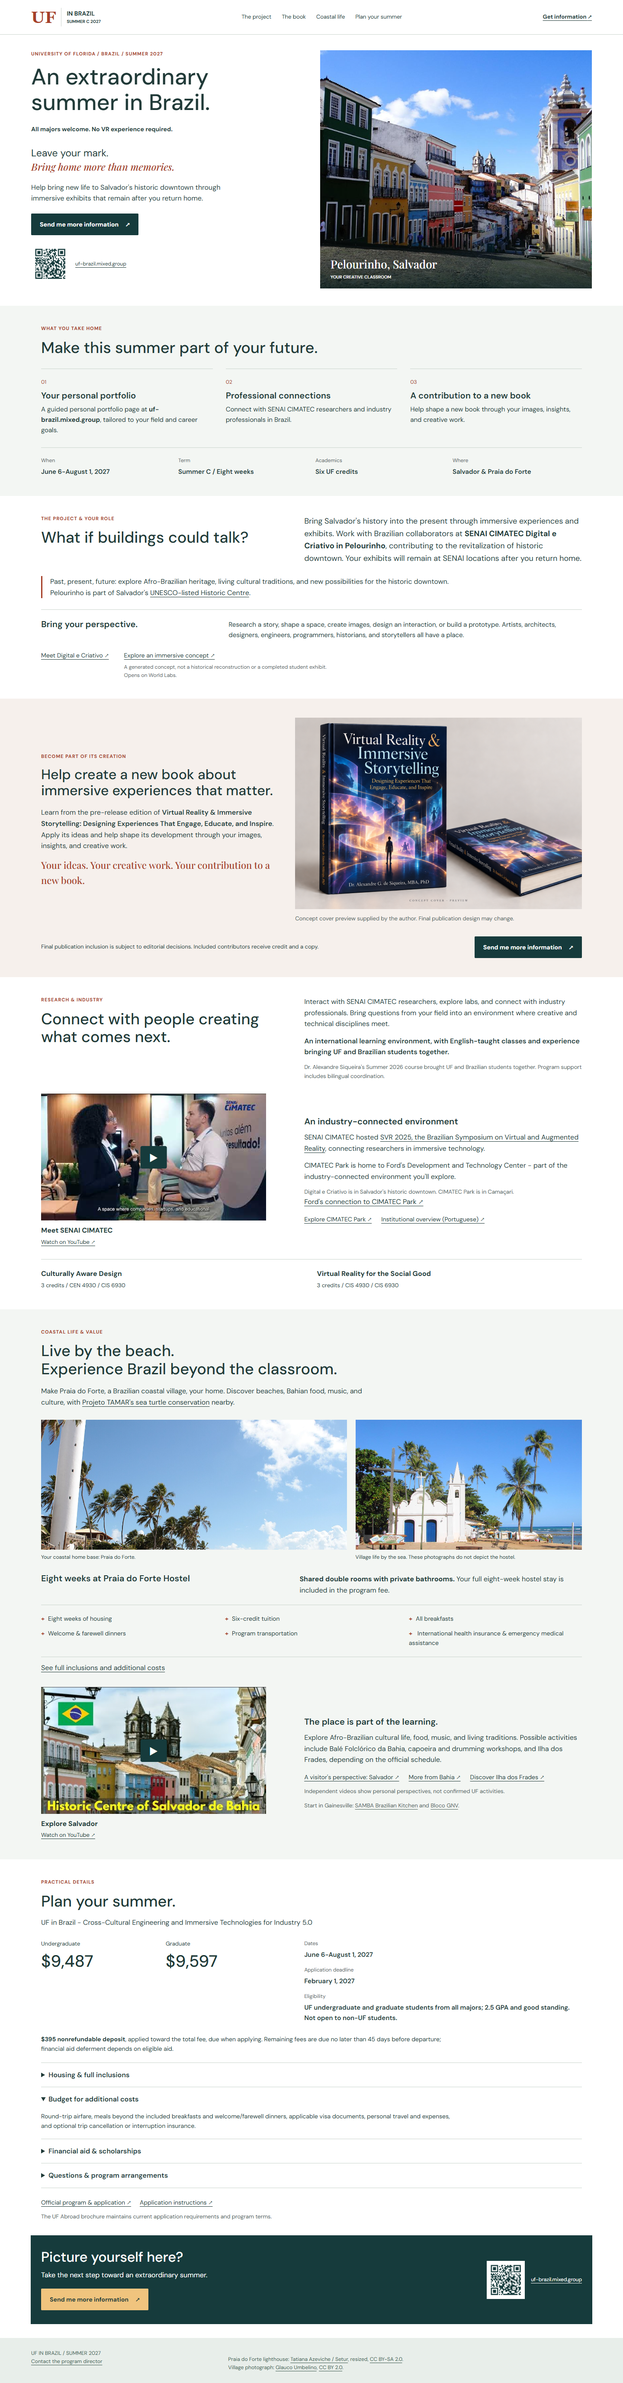
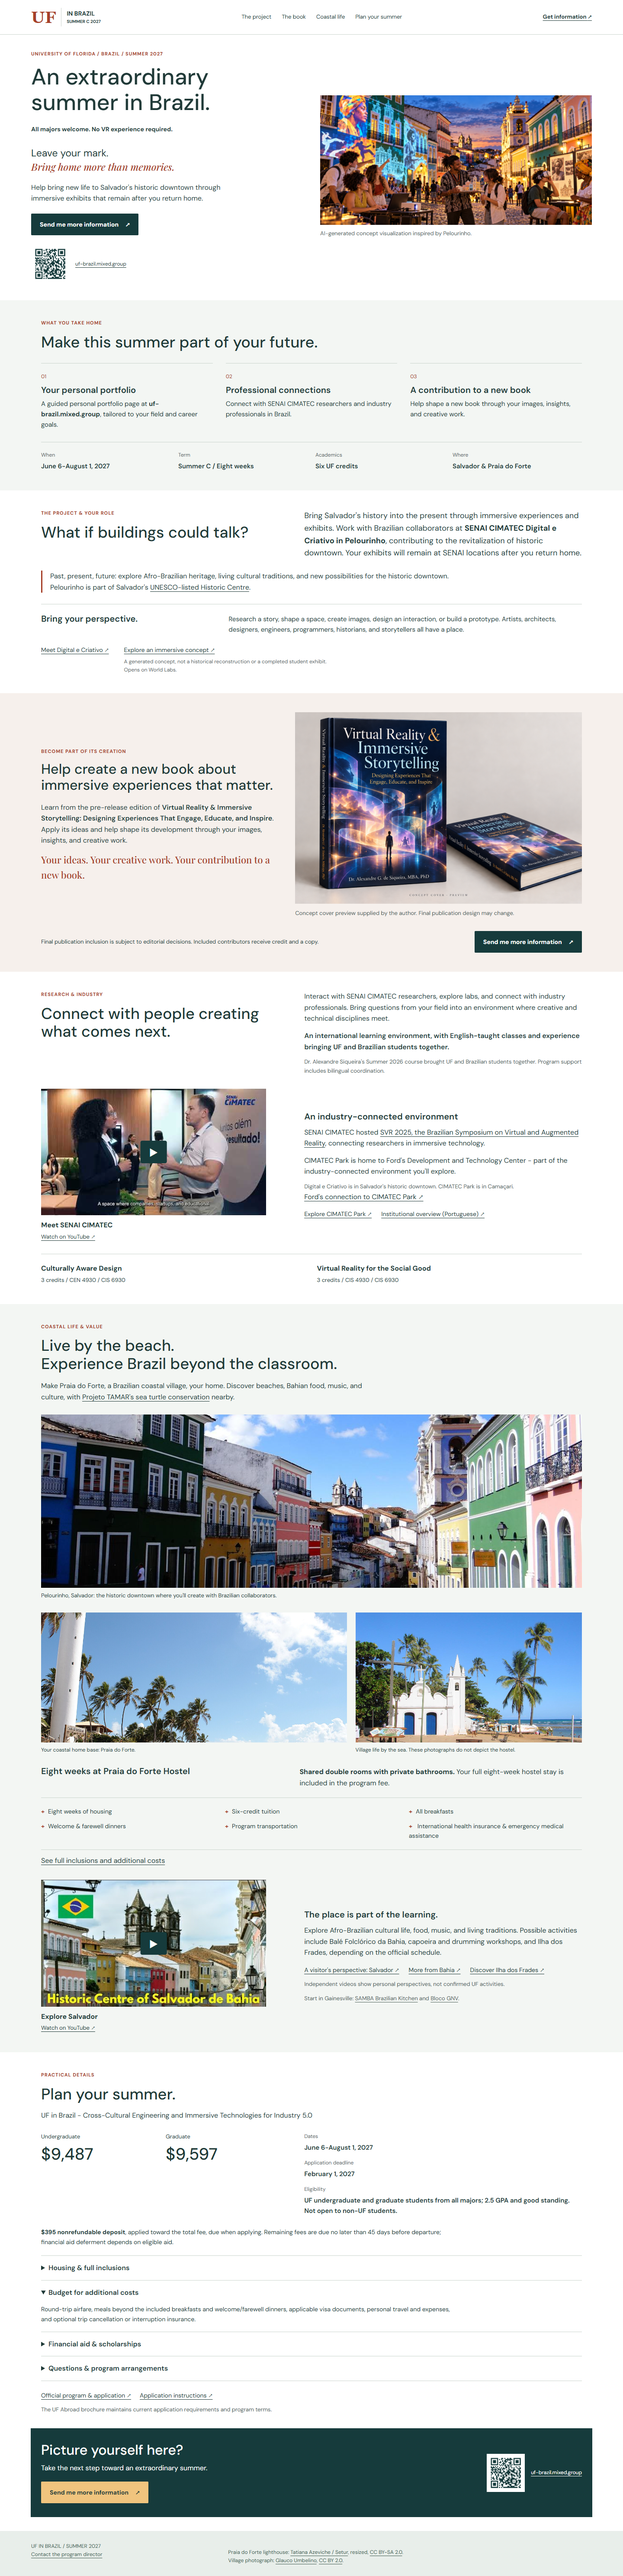
Use approved immersive-project guide image in opening

diff --git a/index.html b/index.html
@@ -42,14 +42,14 @@
         </div>
         <figure class="hero-photo">
           <img
-            src="Colorful%20street%20scene%20of%20Salvador,%20Brazil.jpg"
-            alt="Colorful buildings and cobblestone streets in Pelourinho, Salvador"
-            width="1280"
-            height="719"
+            src="assets/pelourinho-immersive-concept.png"
+            alt="AI-generated concept of students prototyping immersive experiences in Pelourinho, with laptops, VR headsets, and projections across historic buildings"
+            width="516"
+            height="246"
             fetchpriority="high"
           />
           <figcaption>
-            Pelourinho, Salvador <span>YOUR CREATIVE CLASSROOM</span>
+            AI-generated concept visualization inspired by Pelourinho.
           </figcaption>
         </figure>
         <div class="hero-bottom">
@@ -330,6 +330,19 @@
           >
           nearby.
         </p>
+        <figure class="destination-photo">
+          <img
+            src="Colorful%20street%20scene%20of%20Salvador,%20Brazil.jpg"
+            alt="Authentic destination photograph of colorful buildings and cobblestone streets in Pelourinho, Salvador"
+            width="1280"
+            height="719"
+            loading="lazy"
+          />
+          <figcaption>
+            Pelourinho, Salvador: the historic downtown where you'll create with
+            Brazilian collaborators.
+          </figcaption>
+        </figure>
         <div class="coast-photos">
           <figure>
             <img

diff --git a/styles.css b/styles.css
@@ -1020,3 +1020,36 @@ footer {
     scroll-behavior: auto;
   }
 }
+.hero-photo {
+  align-self: center;
+  min-height: 0;
+  height: auto;
+  overflow: visible;
+}
+.hero-photo img {
+  position: static;
+  width: 100%;
+  height: auto;
+  object-fit: contain;
+}
+.hero-photo figcaption {
+  position: static;
+  background: none;
+  padding: 10px 0 0;
+  color: #4e625a;
+  font:
+    13px/1.6 "DM Sans",
+    Arial,
+    sans-serif;
+}
+.destination-photo {
+  margin-top: 28px;
+}
+.destination-photo img {
+  max-height: 400px;
+  object-fit: cover;
+}
+.destination-photo figcaption {
+  font-size: 13px;
+  margin-top: 8px;
+}

diff --git a/docs/RELEASE.md b/docs/RELEASE.md
@@ -39,7 +39,7 @@ Alex supplied `Updated Author Credit Book Mockup.png`, now included as `assets/b
 - The full eight-week hostel stay is explicitly included on the page, following the approved housing/value direction. The official brochure's inclusion list still uses the narrower phrase about accommodation on scheduled excursions; its housing section describes the hostel stay separately. The official listing should be aligned with Alex's clarified full-stay wording before release. This does not reopen the approved housing facts.
 - The UF Abroad brochure was inspected on October 3, 2026: dates, deadline, fees, eligibility, course titles/codes, deposit, payment timing, and remaining inclusions match the page. The brochure remains the source of current application terms.
 - Ford's September 23, 2026 official article confirms its Development and Technology Center at CIMATEC Park in Camacari: https://www.fromtheroad.ford.com/br/pt/articles/2026/ford-abre-as-portas-de-seu-centro-tecnologico-na-bahia-para-a-19 . This is an ecosystem connection, not a confirmed Ford meeting or endorsement. No Ford logo is used. Visit arrangements can be added to the practical disclosure once confirmed.
-- The original opening image is preserved. Praia do Forte lighthouse and village photo attributions and license links remain in the footer. Scenic photographs are not labeled as hostel images. Other repository photographs without documented clearance are not introduced into the new page.
+- The opening uses the approved AI-generated immersive-project visualization extracted from page 1 of the latest `UF-Brazil-Program-Guide (1).pdf` supplied in Downloads (October 3, 2026). It is stored as `assets/pelourinho-immersive-concept.png`, with the requested AI-generated concept caption. The entire image is shown on desktop and mobile to retain students, projections, and prototyping; the caption sits below the image. The original Pelourinho photograph is preserved as authentic destination imagery in coastal life, as well as on the signup page. Praia do Forte lighthouse and village photo attributions and license links remain in the footer. Scenic photographs are not labeled as hostel images. Other repository photographs without documented clearance are not introduced into the new page.
 - Two visible video previews load titled YouTube privacy-enhanced embedded players only when clicked. Keyboard activation works and YouTube links remain available as a fallback, including without JavaScript. Supplementary SENAI, Bahia, Ilha dos Frades, and Gainesville resources are retained. Preview images and fonts depend on external services.
 - Opening and closing QR codes now point to the main website, `https://uf-brazil.mixed.group/`.
 - Pelourinho is identified as part of Salvador's UNESCO-listed Historic Centre, with the UNESCO listing linked. The SVR 2025 host reference is supported by the official SBC conference documentation and https://comissoes.sbc.org.br/ce-rv/ . Dr. Alexandre Siqueira and his Summer 2026 course are named in the English-support evidence.

diff --git a/README.md b/README.md
@@ -18,7 +18,7 @@ See [release dependencies and email setup](docs/RELEASE.md) before merging or de
 
 Keep the approved sequence: opening, outcomes, project/roles, book, research/industry, coastal life/value, practical details/signup. Alex owns commitments and final messaging. The current copy includes the approved lasting exhibits, portfolio, language support, and full-stay housing commitments. Formats and role examples remain possibilities to develop with Brazilian collaborators.
 
-The original opening image, `Colorful street scene of Salvador, Brazil.jpg`, is retained and also appears in the official UF brochure. It depicts Pelourinho, not a student exhibit or partner facility.
+The opening uses `assets/pelourinho-immersive-concept.png`, the approved AI-generated project visualization extracted from the latest program guide. Its caption identifies it as a concept inspired by Pelourinho. The original `Colorful street scene of Salvador, Brazil.jpg` is retained in destination content and the signup page and also appears in the official UF brochure. It depicts Pelourinho, not a student exhibit or partner facility.
 
 - `assets/praia-do-forte-lighthouse.jpg`: Tatiana Azeviche / Setur, [source](<https://commons.wikimedia.org/wiki/File:Praia_do_Forte._Foto_Tatiana_Azeviche_Setur_(8577174259).jpg>), [CC BY-SA 2.0](https://creativecommons.org/licenses/by-sa/2.0/), resized to 1280px.
 - `assets/praia-do-forte-village.jpg`: Glauco Umbelino, [source](https://commons.wikimedia.org/wiki/File:Praia_do_Forte-BA.jpg), [CC BY 2.0](https://creativecommons.org/licenses/by/2.0/).

diff --git a/docs/PR.md b/docs/PR.md
@@ -10,6 +10,8 @@ Alex's supplied author-credit book mockup now replaces the initial sample spread
 
 ## Validation
 
+The opening now uses the approved AI-generated immersive-project scene from the latest guide, with the exact concept caption. Desktop and mobile show the full scene without trimming students, projections, or prototypes. The original photograph appears as authentic Pelourinho destination imagery in coastal life and remains on the signup page.
+
 - `npm run check` in Chromium-based Edge: 1440px desktop, 820px tablet, 390px and 320px phones; signup desktop/phone.
 - No horizontal overflow, missing internal anchors, unloaded images, or automated WCAG A/AA axe violations in checked layouts.
 - Opening photograph enters the first phone screen; book appears in the first half of the page.
